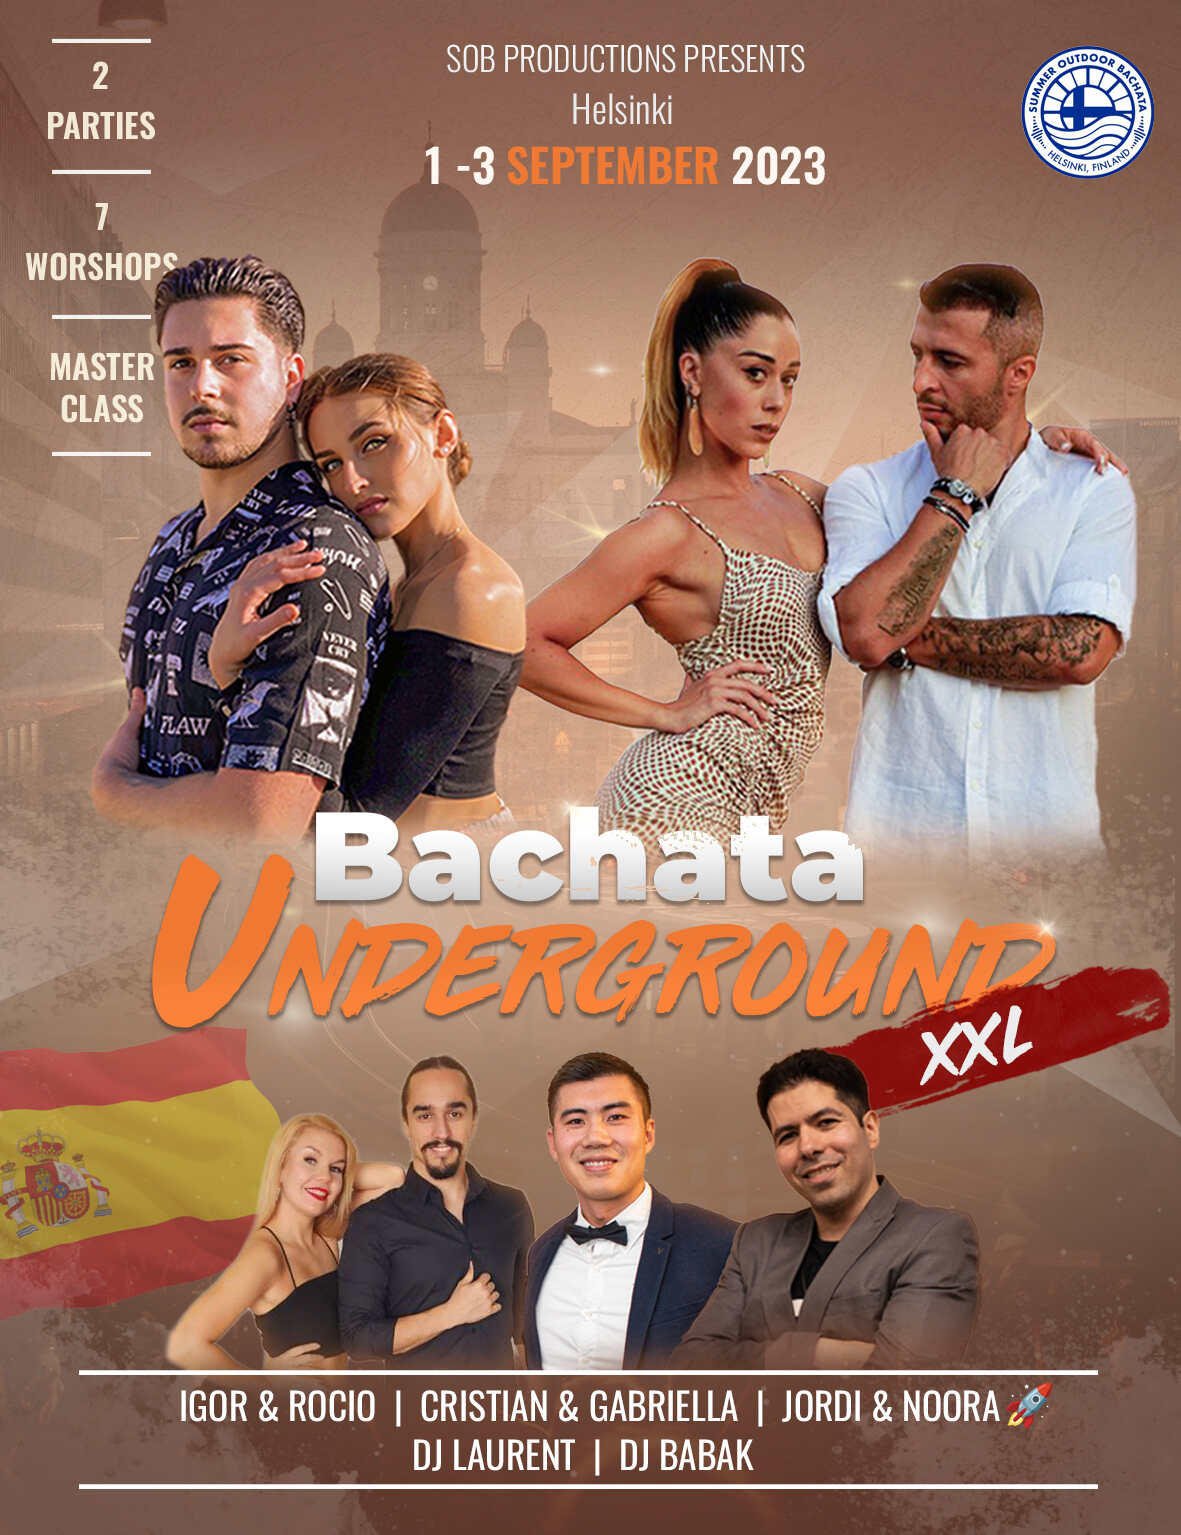
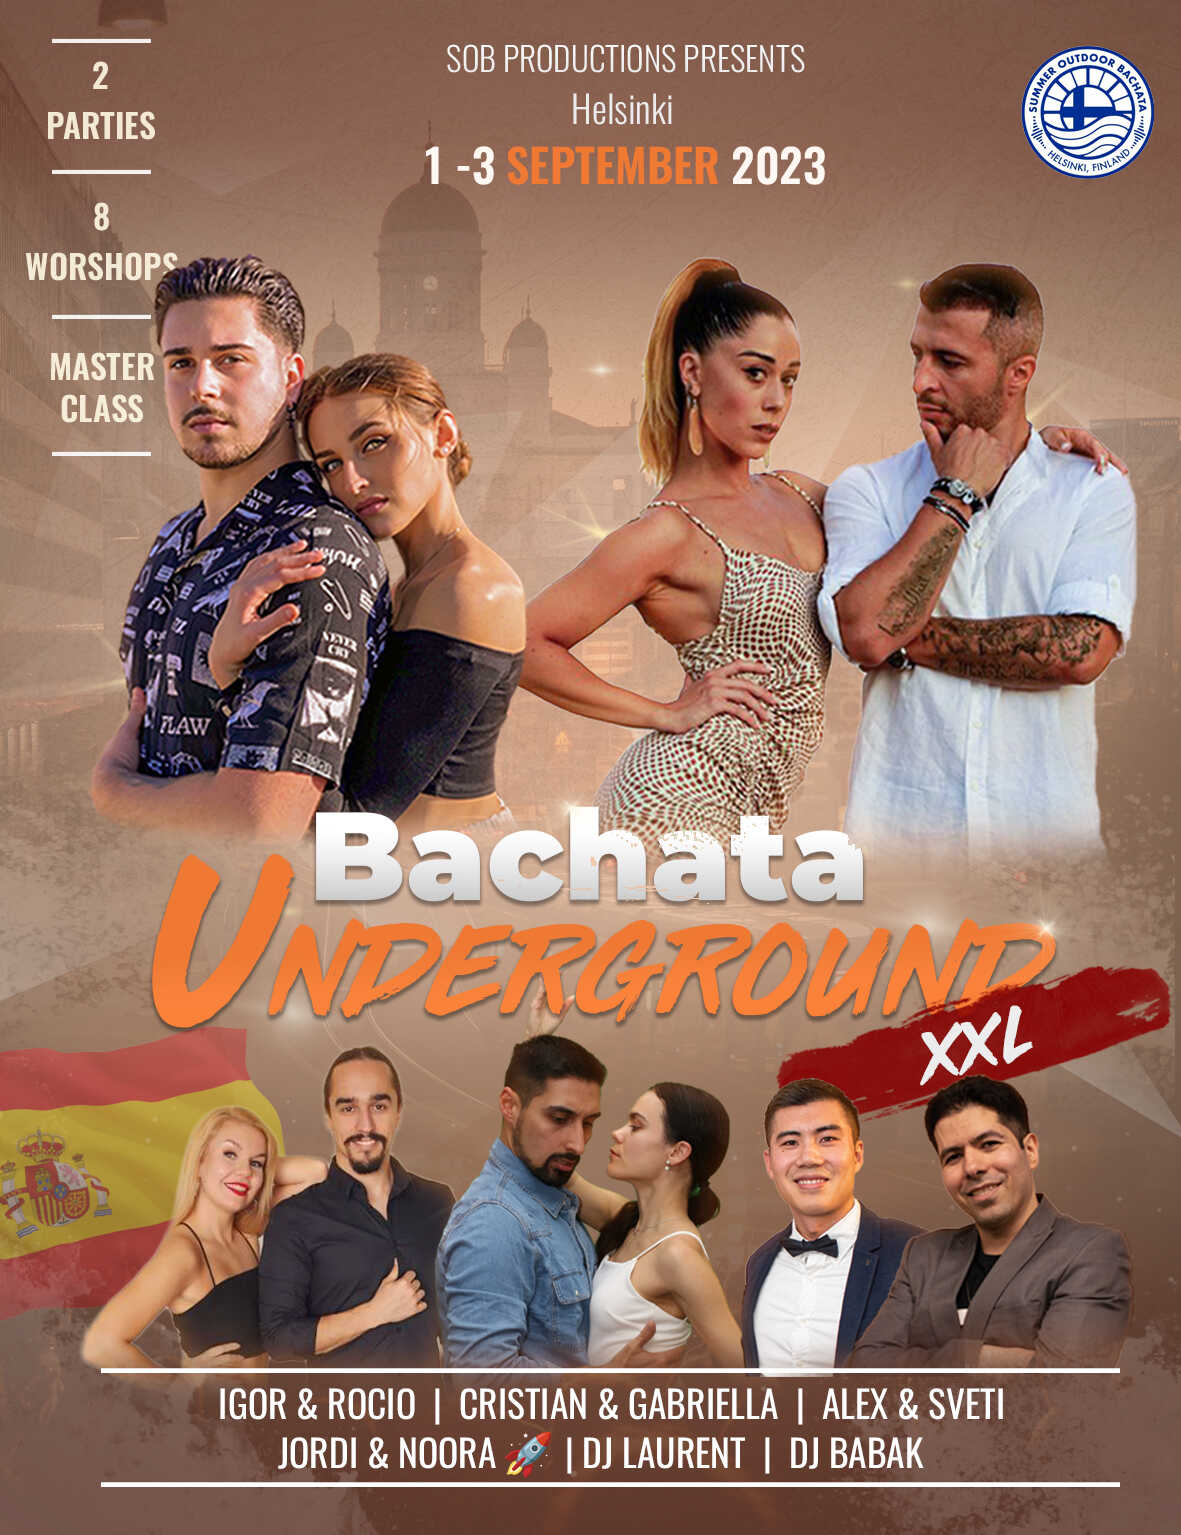
added Alex and Sveti

Changed region(s): [[0.061, 0.643, 0.9754, 0.9798], [0.061, 0.1225, 0.0914, 0.1531]]

diff --git a/src/data/artists.ts b/src/data/artists.ts
@@ -1,5 +1,6 @@
 import IgorRocio from '../public/igorRocio.jpg'
 import CristianGabriella from '../public/cristianGabriella.jpeg'
+import AlexSveti from '../public/alex&sveti.jpg'
 import JordiNoora from '../public/jordiNoora.jpg'
 import LaurentDJ from '../public/laurentTram.jpg'
 import BabakDJ from '../public/djbabak.jpg'
@@ -33,6 +34,15 @@ export const artistsData: Record<ArtistCode, ArtistData> = {
     classes: '3 hours class',
     image: CristianGabriella,
     instagram: 'https://www.instagram.com/cristianygabriella/',
+  },
+  as: {
+    code: 'as',
+    name: 'Alex and Sveti',
+    description:
+      'Talented bachata dancers from Greece and Ukraine. Alex and Sveti are certified Bachata Sensual instructors.',
+    classes: '2 hours class',
+    image: AlexSveti,
+    instagram: 'https://www.instagram.com/alexandros_dancer/',
   },
   jn: {
     code: 'jn',

diff --git a/src/pages/index.tsx b/src/pages/index.tsx
@@ -45,7 +45,7 @@ export default function Home() {
 
             <ul className="py-8 md:py-14">
               <li className="text-gray-300 font-semibold text-xl md:text-2xl pb-4">International teachers</li>
-              <li className="text-gray-300 font-semibold text-xl md:text-2xl pb-4">7 hours workshops</li>
+              <li className="text-gray-300 font-semibold text-xl md:text-2xl pb-4">8 hours workshops</li>
               <li className="text-gray-300 font-semibold text-xl md:text-2xl pb-4">1 masterclass</li>
               <li className="text-gray-300 font-semibold text-xl md:text-2xl pb-4">2 parties</li>
               {/* <li className="text-gray-300 font-semibold text-xl md:text-2xl pb-4">Taxi dancers</li> */}

diff --git a/src/pages/tickets.tsx b/src/pages/tickets.tsx
@@ -30,6 +30,7 @@ export default function Tickets() {
             <ul>
               <li className="pb-2">🌟 Igor and Rocio (2h)</li>
               <li className="pb-2">🌟 Cristian and Gabriella (3h)</li>
+              <li className="pb-2">🌟 Alex and Sveti (2h)</li>
               <li className="pb-2">🌟 Jordi and Noora (2h)</li>
             </ul>
 

diff --git a/src/components/ArtistScrollview.tsx b/src/components/ArtistScrollview.tsx
@@ -11,7 +11,7 @@ import { artistsData } from '@/data/artists'
 
 const CARD_WIDTH = isMobile ? 348 : 480
 
-export type ArtistCode = 'ig' | 'cg' | 'jn' | 'lt' | 'bm'
+export type ArtistCode = 'ig' | 'cg' | 'as' | 'jn' | 'lt' | 'bm'
 
 type ArtistScrollviewProps = {
   onClick: (artistsCode: ArtistCode) => void
